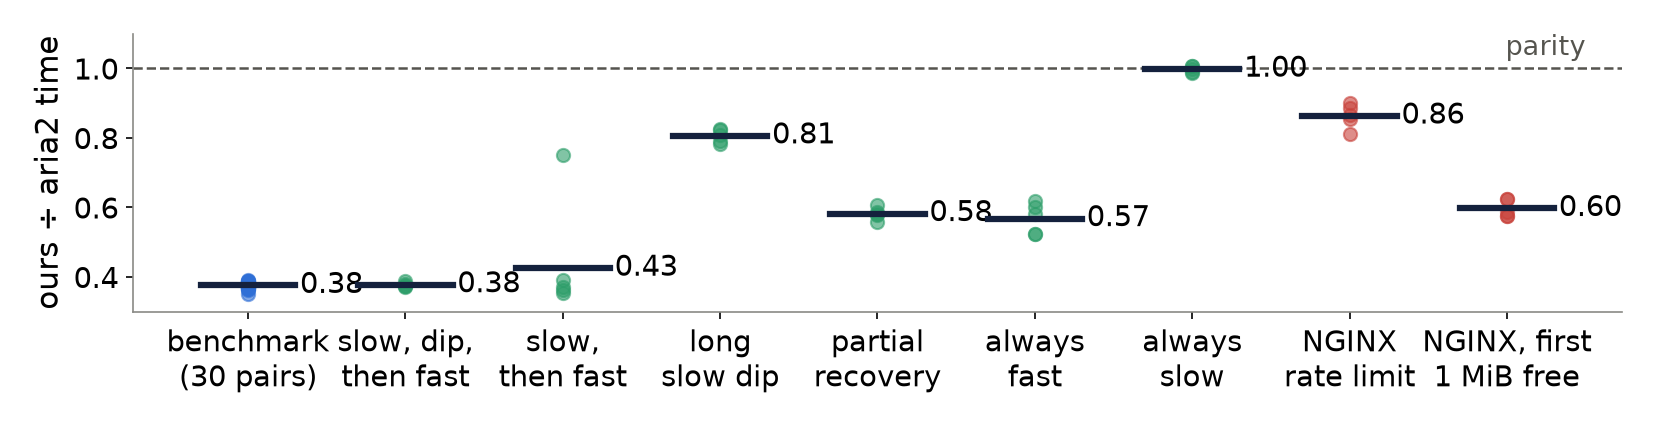
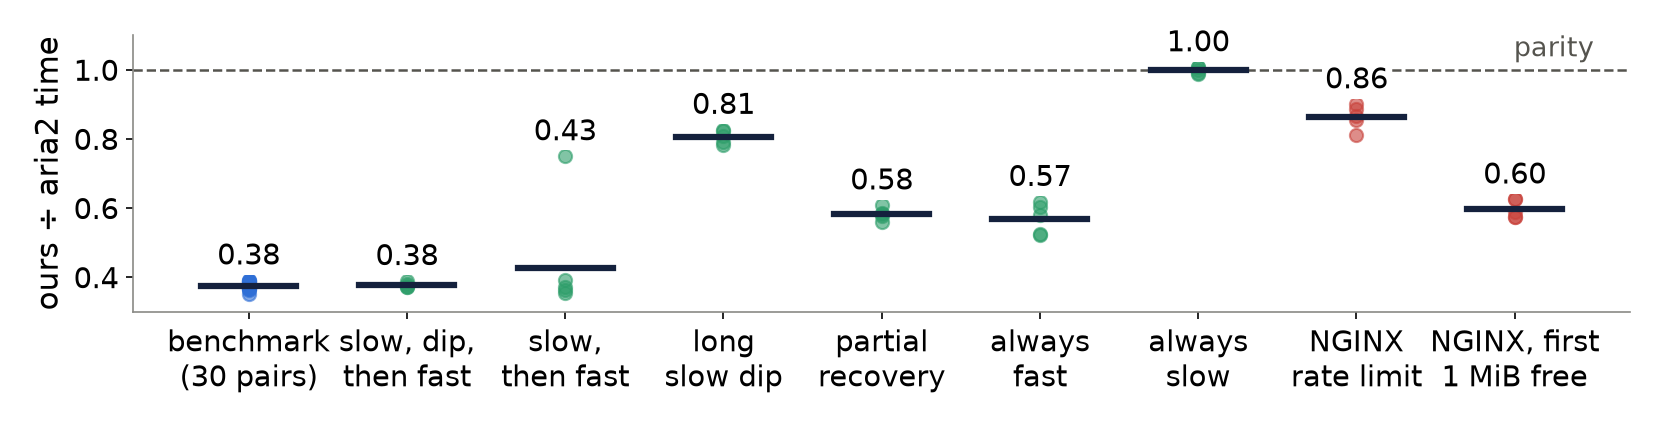
Deck render check: demo slide says 231 numbers, no code name in notes, label collisions fixed in five charts
Claude-Session: https://claude.ai/code/session_01UBJ9uwZXxy7unneDh2WDeM

diff --git a/reports/deck/project/slides/limits.html b/reports/deck/project/slides/limits.html
@@ -18,7 +18,7 @@
 <p style="position:absolute;left:128px;bottom:64px;width:1400px;font-size:24px;color:#6B7280">Protocols predeclared and hashed, not independently timestamped · failed gates reported as failed</p>
 <p style="position:absolute;right:128px;bottom:64px;width:120px;font-size:24px;color:#6B7280;text-align:right">28</p>
 <aside>WHAT TO SAY: Every study has limits, and it is better that we say them first.
-The servers where adapting helped are models we built; real servers may behave differently. All the controlled tests ran on one laptop, with the client and server on the same machine. Our real-internet tests were small: one home connection. The mobile tests replayed recordings rather than using a live phone network. We tried two families of learning methods, and v2 is one chosen version. Because our test server is very consistent, our uncertainty ranges are narrow; they show the noise of the test setup, not of the real world. With the 30-second limit removed, a completely stuck connection would wait forever; a smarter “no progress” timeout is future work. And we measured speed, not fairness: 16 connections take a bigger share of a shared link from other users.
+The servers where adapting helped are models we built; real servers may behave differently. All the controlled tests ran on one laptop, with the client and server on the same machine. Our real-internet tests were small: one home connection. The mobile tests replayed recordings rather than using a live phone network. We tried two families of learning methods, and our best agent is one chosen training run. Because our test server is very consistent, our uncertainty ranges are narrow; they show the noise of the test setup, not of the real world. With the 30-second limit removed, a completely stuck connection would wait forever; a smarter “no progress” timeout is future work. And we measured speed, not fairness: 16 connections take a bigger share of a shared link from other users.
 
 IN SIMPLE WORDS: Our results are careful and honest, but they come from a controlled lab plus small real-world checks.
 

diff --git a/reports/deck/project/slides/summary.html b/reports/deck/project/slides/summary.html
@@ -1,7 +1,7 @@
 <section id="summary" data-transition="fade" style="background:#F6F5F1;color:#14213D;font-family:'IBM Plex Sans', Arial, sans-serif;padding:128px 128px 160px;display:flex;flex-direction:column;gap:36px">
 <p style="font-family:'JetBrains Mono', 'Courier New', monospace;font-size:24px;letter-spacing:3px;text-transform:uppercase;color:#B85A12">All adaptive controllers against fixed settings, on one chart</p>
 <h2 style="font-family:'Space Grotesk', Arial, sans-serif;font-size:60px;font-weight:700;line-height:1.15;color:#14213D">Adapting won only against weaker fixed settings, never the best one</h2>
-<img src="/_blob/3d1f2af9da739061e864117bc9f26fb2" alt="Nine comparisons: the three wins (0.766, 0.907, 0.845) are against fixed settings with small pieces or on our old engine; the six losses (1.071 to 1.471) are against the best fixed setting" style="width:1664px;height:600px;object-fit:contain;background:#FFFFFF;border:1px solid #DEDCD4;border-radius:16px">
+<img src="/_blob/28b4d69f558430b3980c406c5543c05b" alt="Nine comparisons: the three wins (0.766, 0.907, 0.845) are against fixed settings with small pieces or on our old engine; the six losses (1.071 to 1.471) are against the best fixed setting" style="width:1664px;height:600px;object-fit:contain;background:#FFFFFF;border:1px solid #DEDCD4;border-radius:16px">
 <p style="position:absolute;left:128px;bottom:64px;width:1500px;font-size:24px;color:#6B7280">Each row: one comparison · dot: time ratio, line: uncertainty range · green, left of 1: adaptive faster · red, right of 1: adaptive slower</p>
 <p style="position:absolute;right:128px;bottom:64px;width:120px;font-size:24px;color:#6B7280;text-align:right">25</p>
 <aside>WHAT TO SAY: This chart puts the main comparisons together. Each row is one adaptive or AI controller against a fixed setting. The dot is the time ratio and the line is the uncertainty range. Left of the dashed line means the controller was faster.

diff --git a/reports/deck/project/slides/demo.html b/reports/deck/project/slides/demo.html
@@ -12,7 +12,7 @@
 </div>
 <div style="flex:1;display:flex;flex-direction:column;gap:16px;background:#FCFCFA;padding:32px;border:1px solid #DEDCD4;border-radius:16px">
 <h3 style="font-family:'Space Grotesk', Arial, sans-serif;font-size:32px;font-weight:700;color:#2F6FD6">3 · Tests and checker</h3>
-<p style="font-size:26px;line-height:1.4;color:#4A5568">Go test suite, then the checker recomputes all 220 paper numbers</p>
+<p style="font-size:26px;line-height:1.4;color:#4A5568">Go test suite, then the checker recomputes all 231 paper numbers</p>
 </div>
 </div>
 <p style="position:absolute;left:128px;bottom:64px;width:1400px;font-size:24px;color:#6B7280">Commands in reports/thursday/demo.md · no internet: skip step 1</p>
@@ -20,7 +20,7 @@
 <aside>WHAT TO SAY: Now a short live demo in three steps.
 Step 1: we download the Linux kernel source from cdn.kernel.org with 8 connections of 1 MiB. First the program asks the server for a single byte to check it supports range requests. At the end it compares the file’s SHA-256 fingerprint with the one kernel.org publishes; they match, so the file is perfect.
 Step 2: on our test server with the cap switching on at 8 seconds, we run the retrained AI agent. Watch the number of connections drop after 8 seconds as the agent notices requests getting slower.
-Step 3: we run our automated tests, and then the script that recomputes all 220 numbers in our paper from the raw data.
+Step 3: we run our automated tests, and then the script that recomputes all 231 numbers in our paper from the raw data.
 
 BEFORE THE DEMO: build the programs in advance, and do not run anything heavy on the laptop during it. If the internet is down, skip step 1. If anything fails, say what failed.
 

diff --git a/reports/deck/project/slides/r1b.html b/reports/deck/project/slides/r1b.html
@@ -1,7 +1,7 @@
 <section id="r1b" data-transition="fade" style="background:#F6F5F1;color:#14213D;font-family:'IBM Plex Sans', Arial, sans-serif;padding:128px 128px 160px;display:flex;flex-direction:column;gap:28px">
 <p style="font-family:'JetBrains Mono', 'Courier New', monospace;font-size:24px;letter-spacing:3px;text-transform:uppercase;color:#B85A12">Test 1 · does it hold beyond one server and one tool?</p>
 <h2 style="font-family:'Space Grotesk', Arial, sans-serif;font-size:60px;font-weight:700;line-height:1.15;color:#14213D">Faster than aria2 on every timetable except “always slow”</h2>
-<img src="/_blob/1f5f198c46e4d78ecc149660a4c9a399" alt="Ours divided by aria2 for each paired run on the benchmark, six server speed timetables and two stock NGINX settings: 0.38 to 0.86 everywhere except the always-slow timetable at 1.00" style="width:1664px;height:430px;object-fit:contain;background:#FFFFFF;border:1px solid #DEDCD4;border-radius:16px">
+<img src="/_blob/28c6011204db2bf6b61f4a8d6053cbd7" alt="Ours divided by aria2 for each paired run on the benchmark, six server speed timetables and two stock NGINX settings: 0.38 to 0.86 everywhere except the always-slow timetable at 1.00" style="width:1664px;height:430px;object-fit:contain;background:#FFFFFF;border:1px solid #DEDCD4;border-radius:16px">
 <div style="display:flex;gap:24px">
 <div style="flex:1;background:#FCFCFA;padding:20px 28px;border:1px solid #DEDCD4;border-radius:16px">
 <p style="font-size:26px;line-height:1.35;color:#14213D"><b style="color:#2F6FD6">Other tools, axel and lftp:</b> ours took about a third of their time</p>

diff --git a/reports/deck/project/slides/r5.html b/reports/deck/project/slides/r5.html
@@ -3,7 +3,7 @@
 <h2 style="font-family:'Space Grotesk', Arial, sans-serif;font-size:60px;font-weight:700;line-height:1.15;color:#14213D">On real public servers, one fixed setting was close to the best</h2>
 <p style="font-size:26px;line-height:1.4;color:#4A5568"><b style="color:#14213D">Setup:</b> from home broadband in India, the Linux source (64 MB) from 4 public servers, at 4 times of day, with 8 fixed settings and aria2</p>
 <div style="display:flex;gap:48px;align-items:start">
-<img src="/_blob/fd5d8877b85a529b76cb4dff91071b98" alt="For each server and time of day, how much slower our one fixed setting (8 connections by 1 MiB) and aria2 were than the best fixed setting for that case" style="width:1100px;height:520px;object-fit:contain;background:#FFFFFF;border:1px solid #DEDCD4;border-radius:16px">
+<img src="/_blob/08f773c742fdbb8598967d32a7835323" alt="For each server and time of day, how much slower our one fixed setting (8 connections by 1 MiB) and aria2 were than the best fixed setting for that case" style="width:1100px;height:520px;object-fit:contain;background:#FFFFFF;border:1px solid #DEDCD4;border-radius:16px">
 <div style="flex:1;display:flex;flex-direction:column;gap:20px">
 <p style="font-family:'Space Grotesk', Arial, sans-serif;font-size:72px;font-weight:700;line-height:1;color:#2F6FD6">3.7 %</p>
 <p style="font-size:26px;line-height:1.4;color:#4A5568">average shortfall of one setting, 8 connections × 1 MiB, against the best for each case</p>

diff --git a/reports/deck/project/slides/r2a.html b/reports/deck/project/slides/r2a.html
@@ -2,7 +2,7 @@
 <p style="font-family:'JetBrains Mono', 'Courier New', monospace;font-size:24px;letter-spacing:3px;text-transform:uppercase;color:#B85A12">Test 2 · unstable mobile networks</p>
 <h2 style="font-family:'Space Grotesk', Arial, sans-serif;font-size:64px;font-weight:700;line-height:1.15;color:#14213D">Real mobile links swing wildly…</h2>
 <div style="display:flex;gap:48px;align-items:start">
-<img src="/_blob/5ca053238923d14425b7d2c25b781023" alt="Capacity over time for three recorded drives: Verizon LTE, T-Mobile UMTS and AT&amp;T LTE, swinging between near zero and peaks of 7 to 43 Mbit/s" style="width:1100px;height:590px;object-fit:contain;background:#FFFFFF;border:1px solid #DEDCD4;border-radius:16px">
+<img src="/_blob/327f898f9a2cded143f9257275335473" alt="Capacity over time for three recorded drives: Verizon LTE, T-Mobile UMTS and AT&amp;T LTE, swinging between near zero and peaks of 7 to 43 Mbit/s" style="width:1100px;height:590px;object-fit:contain;background:#FFFFFF;border:1px solid #DEDCD4;border-radius:16px">
 <div style="flex:1;display:flex;flex-direction:column;gap:22px">
 <p style="font-family:'Space Grotesk', Arial, sans-serif;font-size:72px;font-weight:700;line-height:1;color:#2F6FD6">6.5–25×</p>
 <p style="font-size:26px;line-height:1.4;color:#4A5568">a typical fast second carries this many times more data than a typical slow one</p>

diff --git a/reports/deck/project/slides/r4b.html b/reports/deck/project/slides/r4b.html
@@ -10,7 +10,7 @@
 <p style="font-size:26px;line-height:1.4;color:#B85A12"><b>on 3 new conditions: faster in none</b></p>
 </div>
 <div style="flex:1.45;display:flex;flex-direction:column;gap:16px">
-<img src="/_blob/fd385fe1211a2e12b897691214f432a8" alt="Agent that picks both the number of connections and piece size, against the best fixed setting in four scenarios: slower in all four, 1.08 to 1.47 times" style="width:900px;height:420px;object-fit:contain;background:#FFFFFF;border:1px solid #DEDCD4;border-radius:16px">
+<img src="/_blob/345a28c4d2aab04a5f33fd23f250574e" alt="Agent that picks both the number of connections and piece size, against the best fixed setting in four scenarios: slower in all four, 1.08 to 1.47 times" style="width:900px;height:420px;object-fit:contain;background:#FFFFFF;border:1px solid #DEDCD4;border-radius:16px">
 <p style="font-size:26px;line-height:1.4;color:#4A5568"><b style="color:#14213D">Agent picking N and piece size:</b> slower than the best fixed setting in all 4 scenarios</p>
 </div>
 </div>

diff --git a/reports/handbook/make_deck_figs.py b/reports/handbook/make_deck_figs.py
@@ -159,7 +159,8 @@ for i, (lab, r, col) in enumerate(rows):
     ax.scatter([i] * len(r), r, color=col, s=40, alpha=0.6, zorder=2)
     g = math.exp(stats.mean(math.log(x) for x in r))
     ax.plot([i - 0.3, i + 0.3], [g, g], color="#14213d", lw=3, zorder=3)
-    ax.text(i + 0.33, g, f"{g:.2f}", va="center", fontsize=14)
+    ax.text(i, max(r + [g]) + 0.025, f"{g:.2f}", ha="center", va="bottom", fontsize=14, zorder=5,
+            bbox=dict(fc="white", ec="none", pad=1.5))
 ax.axhline(1, color=DARK, ls="--", lw=1.2)
 ax.text(len(rows) - 0.5, 1.02, "parity", ha="right", va="bottom", fontsize=13, color=DARK)
 ax.set_xticks(range(len(rows)), [r[0] for r in rows])
@@ -195,9 +196,8 @@ if os.path.isdir(TR):
         v = full[:300]
         ax.fill_between(range(len(v)), v, color=col, alpha=0.25, lw=0)
         ax.plot(v, color=col, lw=1.6)
-        ax.set_ylim(0, max(v) * 1.25)
-        ax.text(0.99, 0.95, f"{lab} · swing {p9010(full):.0f}×", transform=ax.transAxes, ha="right", va="top",
-                fontsize=14, fontweight="bold", color=DARK)
+        ax.set_ylim(0, max(v) * 1.1)
+        ax.set_title(f"{lab} · swing {p9010(full):.0f}×", loc="right", fontsize=14, fontweight="bold", color=DARK, pad=3)
         ax.yaxis.set_major_locator(matplotlib.ticker.MaxNLocator(3))
     axs[1].set_ylabel("Mbit/s")
     axs[-1].set_xlabel("time (s), first 5 minutes of each drive")
@@ -283,8 +283,8 @@ for i, s in enumerate(best):
 ax.set_xticks(range(4), ["cap from\n8 s", "no cap", "cap from\nstart", "slow,\nthen fast"])
 ax.set_ylabel("time (s)")
 ax.legend(handles=[Patch(color=DARK, label="best fixed"), Patch(color=BLUE, label="agent picking N + piece size")], frameon=False,
-          loc="upper right", ncol=1, fontsize=13)
-ax.set_ylim(0, 128)
+          loc="lower left", bbox_to_anchor=(0.0, 1.0), ncol=2, fontsize=13)
+ax.set_ylim(0, 112)
 save(f, "joint.png")
 
 # --- r4c: v2 study (1100 x 520) ----------------------------------------------
@@ -333,12 +333,17 @@ lp = [c for c in load(f"{T}/live_pilot_l1/analysis/summary.json")["conditions"] 
 f, ax = fig(1100, 520)
 xs = range(len(lp))
 ax.axhline(5, color=RED, ls="--", lw=1.5)
-ax.text(len(lp) - 0.5, 5.6, "5 % line", ha="right", fontsize=13, color=RED)
+ax.text(len(lp) - 0.3, 5.7, "5 % line", ha="left", fontsize=14, color=RED)
+ax.set_xlim(-0.7, len(lp) + 1.6)
 ax.scatter(xs, [100 * (c["aria2_over_best_fixed"] - 1) for c in lp], color=GREY, s=70, label="aria2", zorder=2)
 ax.scatter(xs, [100 * (c["time_s"]["ours_N8_S1M"] / c["best_s"] - 1) for c in lp], color=BLUE, s=80,
            label="ours, 8 × 1 MiB everywhere", zorder=3)
 NAMES = {"kcdn": "kernel.org CDN", "kedge": "kernel.org origin", "riken": "RIKEN, Japan", "tuna": "Tsinghua, China"}
-ax.set_xticks(list(xs), [NAMES[c["server"]] for c in lp], rotation=60, fontsize=11, ha="right")
+groups = {}
+for i, c in enumerate(lp):
+    groups.setdefault(c["server"], []).append(i)
+ax.set_xticks([sum(g) / len(g) for g in groups.values()], [NAMES[k].replace(" ", "\n", 1) for k in groups], fontsize=14)
+ax.set_xlabel("one dot per time of day, grouped by server")
 ax.set_ylabel("% slower than the\nbest fixed cell")
 ax.legend(frameon=False, loc="upper left")
 save(f, "live.png")
@@ -402,7 +407,7 @@ for i, (lab, r, lo, hi) in enumerate(reversed(rows)):
     col = GREEN if hi < 1 else RED
     ax.plot([lo, hi], [i, i], color=col, lw=3)
     ax.plot(r, i, "o", color=col, ms=10)
-    ax.text(hi + 0.012, i, f"{r:.3f}", va="center", fontsize=14)
+    ax.text(hi + 0.012, i, f"{r:.3f}", va="center", fontsize=14, zorder=5, bbox=dict(fc="white", ec="none", pad=1))
 ax.axvline(1, color=DARK, ls="--", lw=1.5)
 ax.set_yticks(range(len(rows)), [r[0] for r in reversed(rows)], fontsize=14)
 ax.set_xlabel("adaptive ÷ fixed time (95 % interval)")

diff --git a/docs/PROJECT_CONTEXT.md b/docs/PROJECT_CONTEXT.md
@@ -7408,6 +7408,12 @@ https://claude.ai/artifact/Pny8DjgRgQhfdW1bXEbZjh (30 slides; figures from
 `reports/handbook/make_deck_figs.py`). The handbook still quotes the earlier
 "about 5–27×" (p90/p10 over the 8-trace S-pivot set), which is a different set.
 
+Deck render check (2026-10-28): every slide rendered in headless Chromium and
+checked for text under 24 px, overlaps, overflow and code names. Fixes: demo
+slide "220 numbers" -> 231; "v2" removed from the limitations notes; label
+collisions fixed in five charts (`make_deck_figs.py`: fig1, trace_capacity,
+joint, live, forest). Deck republished; checker still 231/231.
+
 ### 22.110 Team handbook (2026-10-26, COMPLETE)
 
 `reports/handbook/handbook.tex` → `handbook.pdf` (93 pages, LaTeX, pdflatex):

diff --git a/queue.md b/queue.md
@@ -169,6 +169,15 @@ started. Details live in `docs/PROJECT_CONTEXT.md` §22.109.
   formatted"; the template conversion is still open in
   `reports/ieee_access/README.md`.
 
+## 6. Presentation deck (viva 2026-10-29)
+
+- [x] Render check of all 31 slides in headless Chromium (text <24 px, overlaps,
+  code names, chart readability). Fixed: demo slide said 220 numbers (now 231);
+  "v2" in the limitations notes; label collisions in five charts (r1b, r2a,
+  r4b, r5, summary), live chart now grouped by server. Republished.
+- [ ] Open: handbook still says "about 5-27x" (ask the user first); IEEE Access
+  template conversion.
+
 ## Housekeeping (on every completed step)
 
 - Update `docs/PROJECT_CONTEXT.md` §22.109 and this file.
